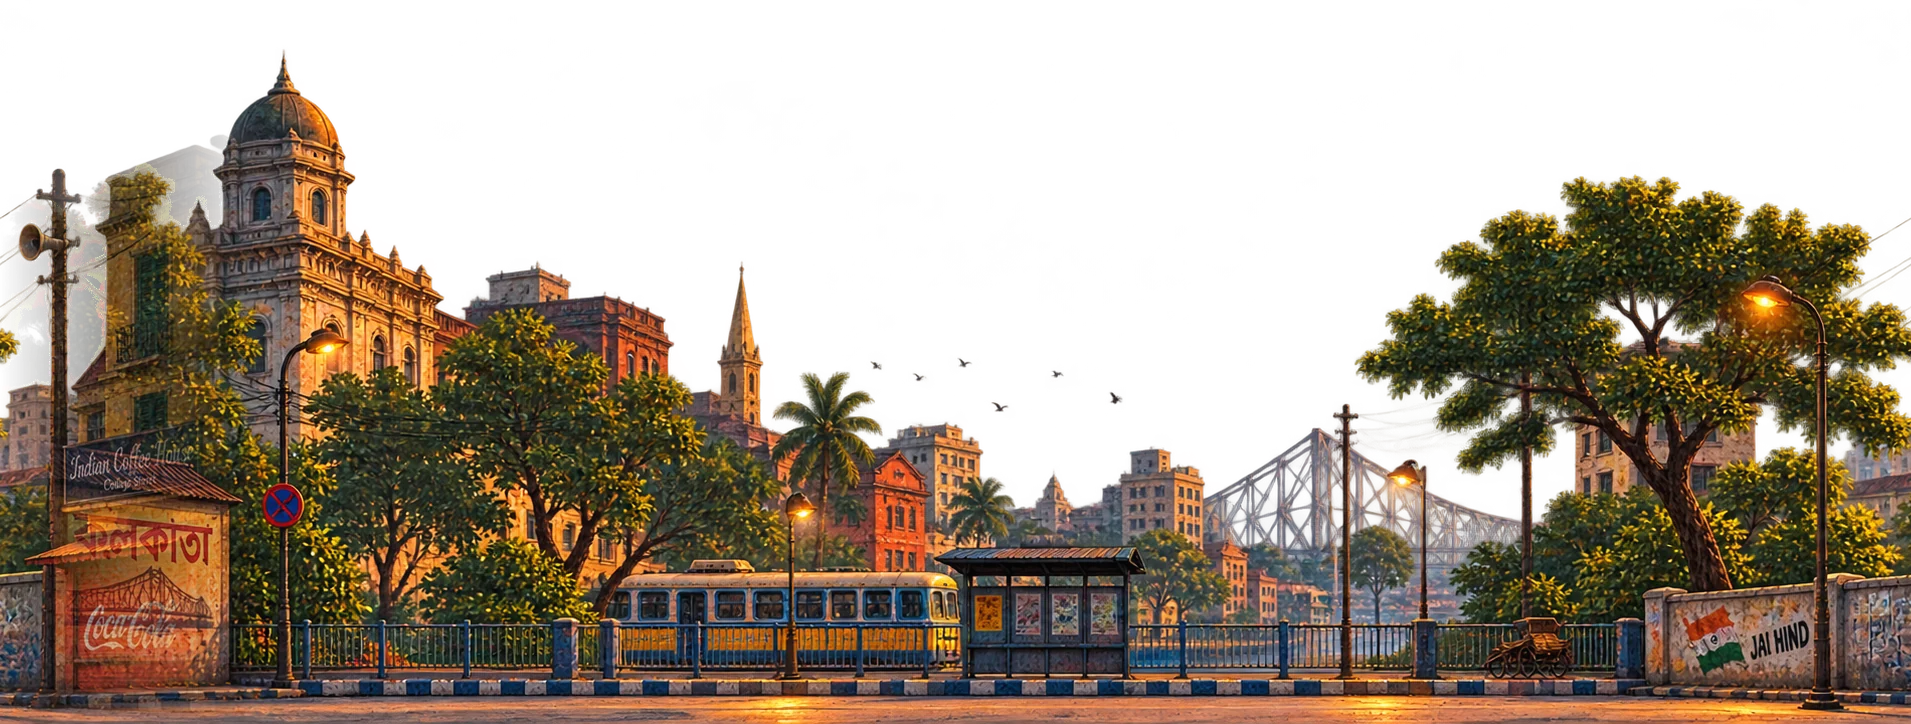
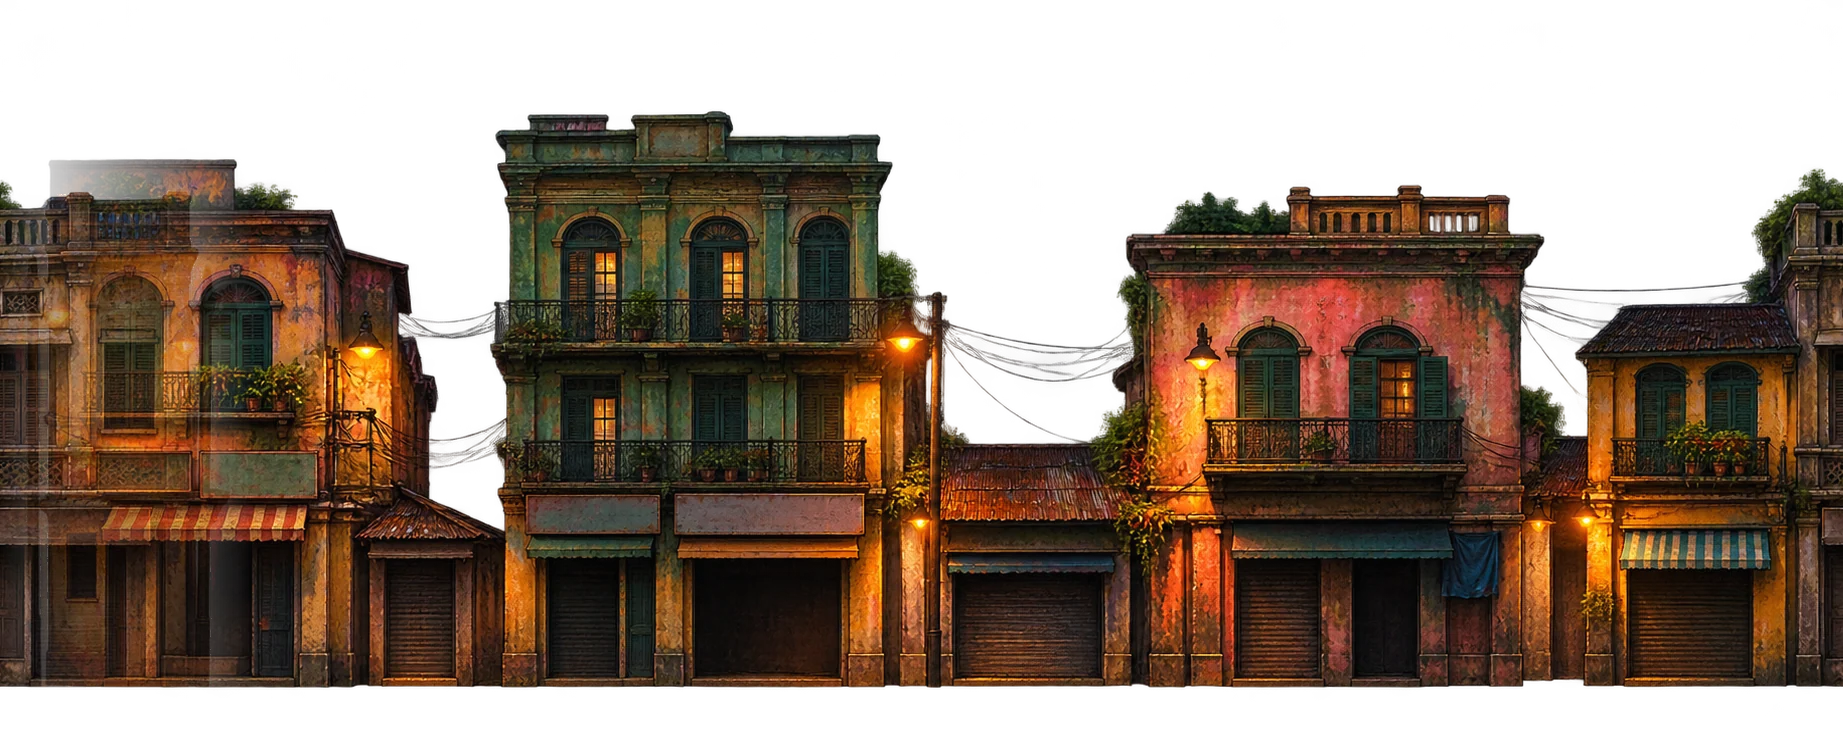
fix(scene): seat the roadside behind the new kerb, drop traffic, version the art
Three things land together.

The road art was redrawn as a full-bleed plane — a stone kerb along the
top and wet asphalt with tram rails down to the foreground — instead of
the old band that floated in a blank frame. The vertical-trim step finds
nothing to cut now, which is correct. But the opaque road strip then
painted over the bottom of bg-near, hiding everything at ground level:
the fence, the hand-pump, the brick pile and the tea stall all sat below
the road's top edge and only the tall palms cleared it. bg-near now sits
0.28 bus heights above the road line rather than on it, so its base tucks
just behind the kerb and the whole roadside reads. It is anchored off the
same road-y and bus-h as the kerb, so it stays seated on a phone too.

The overtaking taxi and lorry are dropped from the scene. Their render
path, refs and sprites are gone and the two webp files with them; the
source art stays in design/source and the pipeline keeps a commented
line, so re-adding either is one edit. The exhaust puff stays.

Scene art is now cache-busted. Every file keeps its stable name, so
prepare-scene.mjs emits a content hash and the app appends ?v=<hash> to
each scene URL; the middleware preloads match and public/_headers serves
/scene immutably. A changed layer is a new URL and updates at once; an
unchanged one is cached for good. bg-mid is also refreshed from new art.

diff --git a/src/components/RoadScene.tsx b/src/components/RoadScene.tsx
@@ -1,6 +1,11 @@
 import { useEffect, useRef } from "react";
 import { SCENE } from "../data/scene";
-import { SCENE_GEOMETRY as G } from "../data/sceneGeometry";
+import { SCENE_GEOMETRY as G, SCENE_VERSION } from "../data/sceneGeometry";
+
+/** Every scene file keeps a stable name, so the content version is carried in
+ *  the query string: a changed layer changes the URL and defeats a stale cache
+ *  without renaming anything or giving up immutable caching. */
+const asset = (path: string) => `${path}?v=${SCENE_VERSION}`;
 
 /**
  * The bus, driving.
@@ -81,26 +86,6 @@ const SPRING_D = 15;
  *  30Hz one travel the same distance in the same wall-clock time. */
 const STEP = 1 / 120;
 
-/**
- * Overtaking traffic, in a lane behind the bus.
- *
- * Each vehicle crosses left-to-right — the same direction the bus faces, only
- * faster, so it reads as overtaking rather than oncoming. Sized and seated in
- * bus heights and cycled in sprite pixels, exactly like everything else, so a
- * pass looks the same on a phone as on a desktop. `seat` is where the sprite's
- * bottom sits above the road line, in bus heights — small and near the bus's
- * own contact so the wheels land on the asphalt, not the kerb or the air.
- * `cycle` is how much road (sprite px) one full appear-and-vanish takes;
- * `cross` is the slice of that spent on screen, the rest being the gap before
- * the next one. Only vehicles whose art is actually present are kept.
- */
-const TRAFFIC = (
-  [
-    { key: "taxi", h: 0.52, seat: -0.04, cycle: 4200, cross: 0.5, phase: 0.15 },
-    { key: "truck", h: 0.72, seat: -0.08, cycle: 6200, cross: 0.5, phase: 0.62 },
-  ] as const
-).filter((t) => t.key in (G.sprites ?? {}));
-
 /** Diesel puffs off the tailpipe. Emitted as a function of distance, so a
  *  faster bus smokes harder, and frozen with the scene when it is paused. */
 const PUFFS = 5;
@@ -117,7 +102,6 @@ export function RoadScene({ honking = false, paused = false }: { honking?: boole
   const roadRef = useRef<HTMLDivElement | null>(null);
   const bodyRef = useRef<HTMLDivElement | null>(null);
   const wheelRefs = useRef<(HTMLImageElement | null)[]>([]);
-  const trafficRefs = useRef<(HTMLImageElement | null)[]>([]);
   const puffRefs = useRef<(HTMLImageElement | null)[]>([]);
 
   // Read by the loop without restarting it.
@@ -230,30 +214,10 @@ export function RoadScene({ honking = false, paused = false }: { honking?: boole
         w.style.transform = `rotate(${spin.toFixed(2)}deg)`;
       }
 
-      // Overtaking traffic. Position is a function of distance in sprite space,
-      // so a pass takes the same road on any screen. Off screen during the gap,
-      // it is simply faded out and parked rather than kept moving.
-      const laneW = el.clientWidth;
-      const road = dist / scale; // sprite px travelled, screen-size invariant
-      for (let i = 0; i < TRAFFIC.length; i++) {
-        const node = trafficRefs.current[i];
-        if (!node) continue;
-        const t = TRAFFIC[i];
-        const phase = ((road / t.cycle) % 1 + 1) % 1;
-        if (phase < t.cross) {
-          const vw = node.clientWidth || 0;
-          const k = phase / t.cross; // 0 off the left, 1 off the right
-          const x = -vw - 48 + k * (laneW + 2 * vw + 96);
-          node.style.transform = `translate3d(${px(x)}, 0, 0)`;
-          node.style.opacity = "1";
-        } else {
-          node.style.opacity = "0";
-        }
-      }
-
       // Exhaust. Each puff drifts back and up from the tailpipe, growing and
       // fading, on a distance clock so it stalls when the bus does. Measured in
       // rendered bus heights so it sits with the sprite at any size.
+      const road = dist / scale; // sprite px travelled, screen-size invariant
       const bh = scale * G.bus.h;
       for (let i = 0; i < puffRefs.current.length; i++) {
         const node = puffRefs.current[i];
@@ -301,9 +265,9 @@ export function RoadScene({ honking = false, paused = false }: { honking?: boole
         }}
       />
 
-      <Layer refEl={farRef} src="/scene/bg-far.webp" bottom={0.16} height={1.15} heightFloor={42} opacity={0.72} />
-      <Layer refEl={midRef} src="/scene/bg-mid.webp" bottom={0.07} height={1.18} heightFloor={43} opacity={0.9} />
-      <Layer refEl={nearRef} src="/scene/bg-near.webp" bottom={-0.02} height={1.17} heightFloor={43} />
+      <Layer refEl={farRef} src={asset("/scene/bg-far.webp")} bottom={0.16} height={1.15} heightFloor={42} opacity={0.72} />
+      <Layer refEl={midRef} src={asset("/scene/bg-mid.webp")} bottom={0.07} height={1.18} heightFloor={43} opacity={0.9} />
+      <Layer refEl={nearRef} src={asset("/scene/bg-near.webp")} bottom={0.28} height={1.17} heightFloor={43} />
 
       {/* road */}
       <div
@@ -314,33 +278,12 @@ export function RoadScene({ honking = false, paused = false }: { honking?: boole
           ref={roadRef}
           className="absolute inset-y-0 left-0 w-[300%] will-change-transform"
           style={{
-            backgroundImage: "url(/scene/road.webp)",
+            backgroundImage: `url(${asset("/scene/road.webp")})`,
             backgroundRepeat: "repeat-x",
             backgroundSize: "auto 100%",
           }}
         />
       </div>
-
-      {/* overtaking traffic, a lane behind the bus so the bus stays the hero */}
-      {TRAFFIC.map((t, i) => {
-        const sp = G.sprites[t.key as "taxi" | "truck"];
-        return (
-          <img
-            key={t.key}
-            ref={(n) => { trafficRefs.current[i] = n; }}
-            src={`/scene/${t.key}.webp`}
-            alt=""
-            aria-hidden="true"
-            className="absolute left-0 will-change-transform"
-            style={{
-              bottom: `calc(var(--road-y) + var(--bus-h) * ${t.seat})`,
-              height: `calc(var(--bus-h) * ${t.h})`,
-              aspectRatio: `${sp.w} / ${sp.h}`,
-              opacity: 0,
-            }}
-          />
-        );
-      })}
 
       {/* the bus, sitting on the road */}
       <div
@@ -361,7 +304,7 @@ export function RoadScene({ honking = false, paused = false }: { honking?: boole
             <img
               key={`puff-${i}`}
               ref={(n) => { puffRefs.current[i] = n; }}
-              src="/scene/exhaust.webp"
+              src={asset("/scene/exhaust.webp")}
               alt=""
               aria-hidden="true"
               className="absolute will-change-transform"
@@ -382,7 +325,7 @@ export function RoadScene({ honking = false, paused = false }: { honking?: boole
             <img
               key={a.x}
               ref={(n) => { wheelRefs.current[i] = n; }}
-              src="/scene/wheel.webp"
+              src={asset("/scene/wheel.webp")}
               alt=""
               className="absolute will-change-transform"
               style={{
@@ -396,7 +339,7 @@ export function RoadScene({ honking = false, paused = false }: { honking?: boole
           );
         })}
 
-        <img src="/scene/bus.webp" alt={SCENE.heroAlt} className="absolute inset-0 size-full" />
+        <img src={asset("/scene/bus.webp")} alt={SCENE.heroAlt} className="absolute inset-0 size-full" />
       </div>
 
       {/* legibility washes, unchanged in spirit from the still scene */}

diff --git a/src/data/sceneGeometry.ts b/src/data/sceneGeometry.ts
@@ -4,21 +4,23 @@
 // away and trimmed, the axle centres read from its own wheel arches, and each
 // scrolling layer's size after the tiling seam was closed.
 
+/** Content fingerprint of the scene art, appended to each asset URL as ?v= so
+ *  the files can be cached immutably yet still update the moment they change. */
+export const SCENE_VERSION = "38acb11d";
+
 export const SCENE_GEOMETRY = {
   bus: { w: 1740, h: 675 },
   /** axle centres in the bus sprite's pixel space, and the arch radius */
   axles: [{"x":412,"y":662,"r":111},{"x":1483,"y":651,"r":102}],
   wheel: { size: 1220 },
   layers: {
-    "road": { w: 1561, h: 312 },
+    "road": { w: 1561, h: 887 },
     "bg-far": { w: 1897, h: 729 },
-    "bg-mid": { w: 1911, h: 724 },
+    "bg-mid": { w: 1843, h: 751 },
     "bg-near": { w: 1851, h: 748 },
   },
   /** optional overtaking traffic and the exhaust puff, in their own pixels */
   sprites: {
-    "taxi": { w: 1602, h: 673 },
-    "truck": { w: 1727, h: 806 },
     "exhaust": { w: 1196, h: 1196 },
   },
 } as const;

diff --git a/functions/_middleware.ts b/functions/_middleware.ts
@@ -19,6 +19,7 @@ import { MOVED_PATHS, PAGE_PATH, PAGE_SEO, PATH_TO_PAGE } from "../src/data/seo"
 import { buildJsonLd } from "../src/lib/jsonld";
 import { renderStaticBody } from "../src/lib/prerender";
 import { BRAND } from "../src/data/brand";
+import { SCENE_VERSION } from "../src/data/sceneGeometry";
 
 /**
  * The Pages project keeps answering on its own `*.pages.dev` host even after a
@@ -107,8 +108,8 @@ export const onRequest: PagesFunction = async ({ request, next }) => {
     rewriter.on("head", {
       element: (el) => {
         el.append(
-          '<link rel="preload" as="image" fetchpriority="high" href="/scene/bus.webp">' +
-            '<link rel="preload" as="image" href="/scene/road.webp">',
+          `<link rel="preload" as="image" fetchpriority="high" href="/scene/bus.webp?v=${SCENE_VERSION}">` +
+            `<link rel="preload" as="image" href="/scene/road.webp?v=${SCENE_VERSION}">`,
           { html: true },
         );
       },
